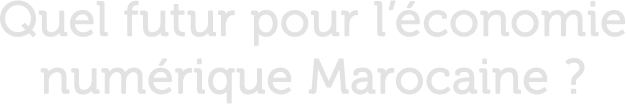
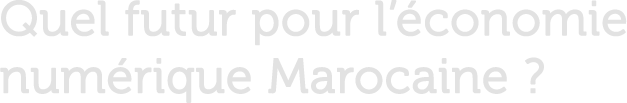
up

diff --git a/0311071998/index.html b/0311071998/index.html
@@ -126,7 +126,7 @@
   <br><a class="btn btn-primary btn-lg" href="" style="color:white;border-color:white;" role="button" data-toggle="tooltip" data-placement="top" title="" data-original-title="Tooltip on top">En savoir plus</a></p>
   </div>
 </div>
-<div align="left" class="jumbotron" style="background:url('http://i.imgur.com/83GCTNb.png');color:white;">
+<div align="left" class="jumbotron" style="background:url('http://i.imgur.com/83GCTNb.png');color:white;margin-top:-25px;">
 		<div class="container">
   <h2><img src="assets/img/eco-num.png"></h2>
   <p style="padding-right:50%;">Coniuncta et Le Grand Magazine (#lgm) s'associent dans le cadre d'une &eacute;mission diffus&eacute;e sur Chaine+ cet hiver.<br>
